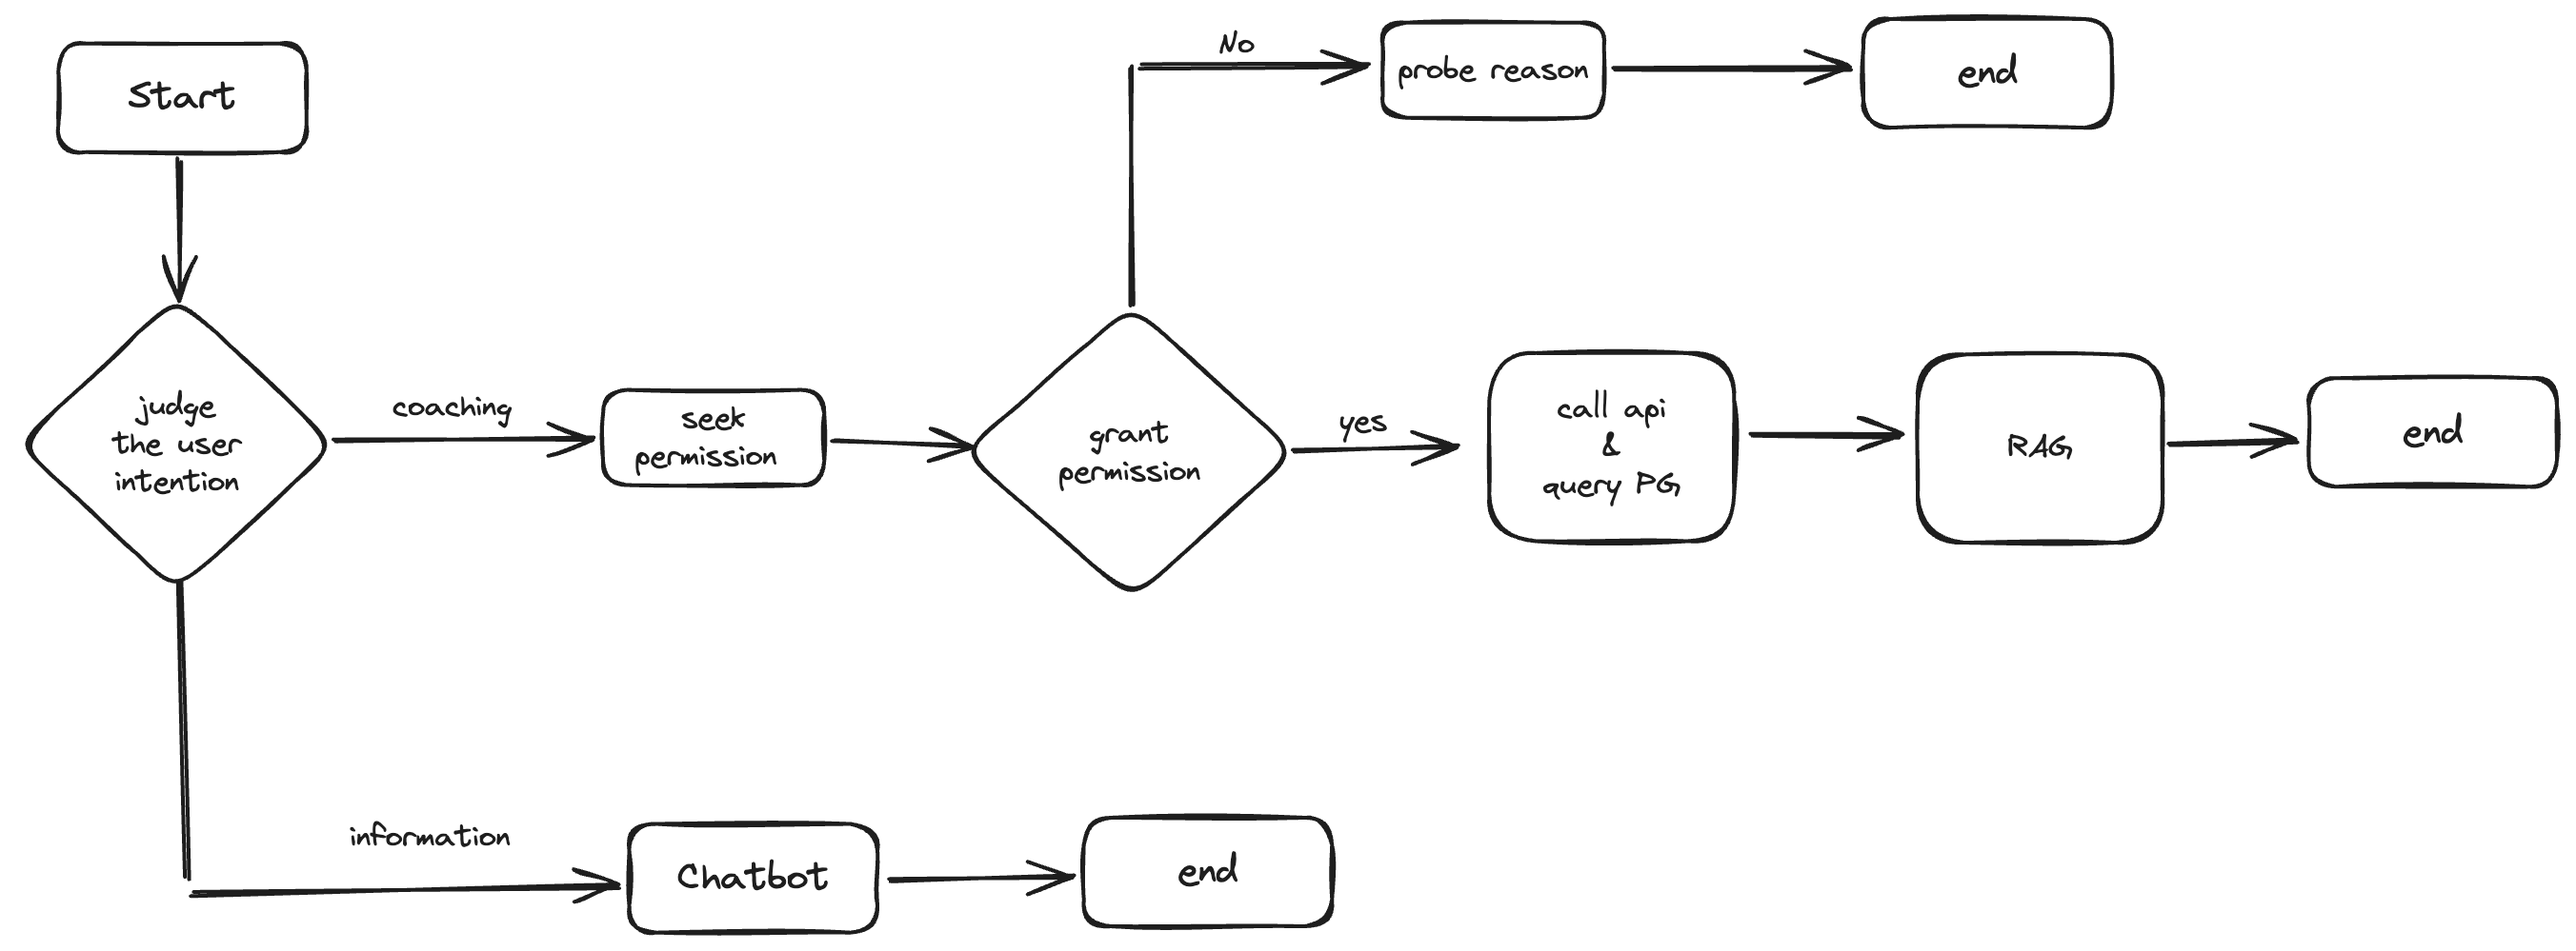
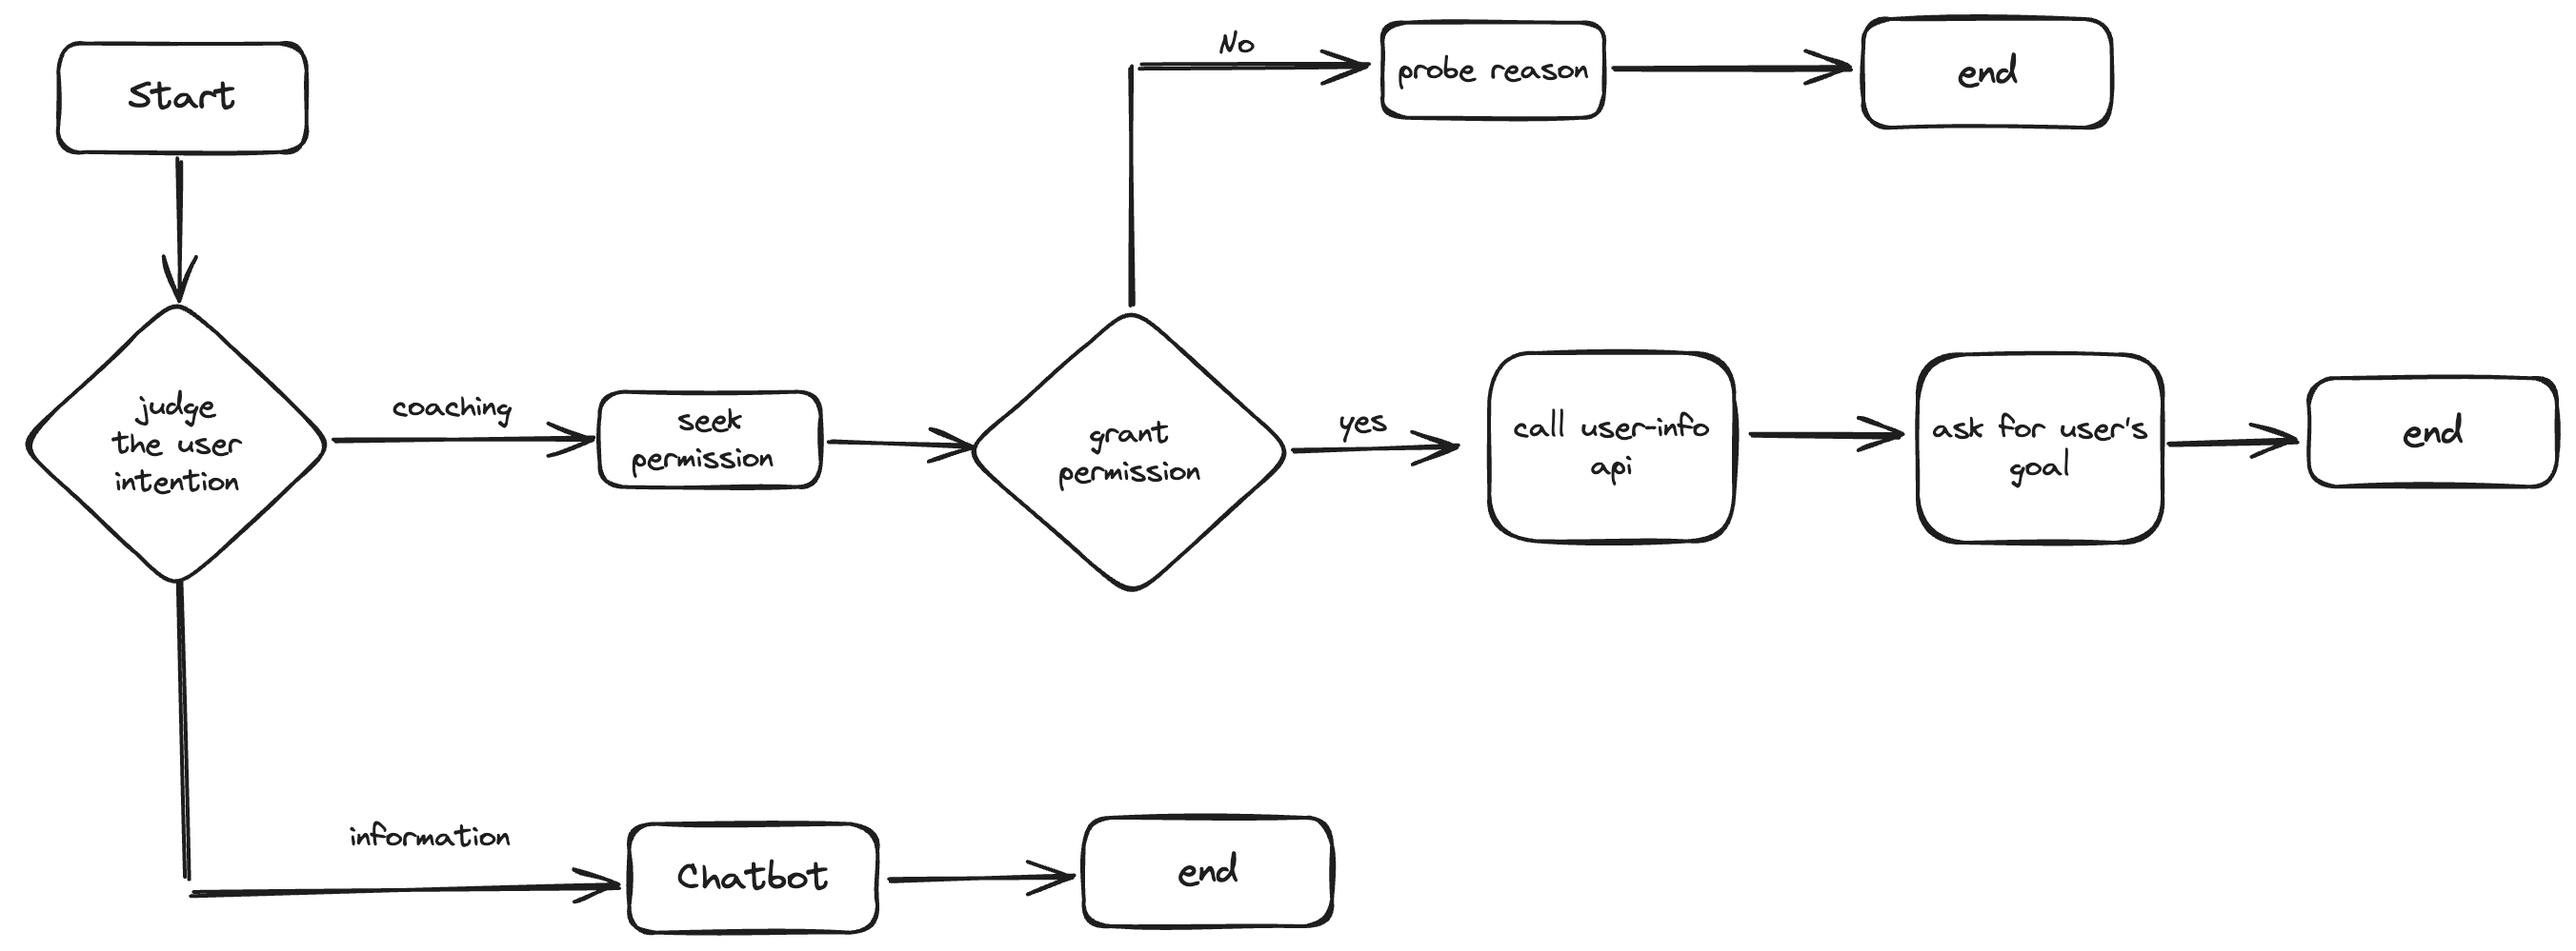
update the prompt to output josn

Changed region(s): [[0.2175, 0.4034, 0.3417, 0.5275], [0.5902, 0.4034, 0.6834, 0.5275], [0.7456, 0.4344, 0.8388, 0.4965]]

diff --git a/main.py b/main.py
@@ -29,25 +29,14 @@ def get_health_coach_tools() -> list[BaseTool]:
         ctx.write_event_to_stream(ProgressEvent(msg="Retrieving user information"))
         response = requests.get('http://localhost:3000/user-info')
         user_info = response.json()
-        print(f"Get the user information from API: {user_info}")
         user_state = await ctx.get("user_state")
         user_state["user_persona"] = user_info["user_persona"]
         user_state["user_tasks"] = user_info["user_tasks"]
         await ctx.set("user_state", user_state)
         return f"The user information is {user_state["user_persona"]} and the user tasks are {user_state["user_tasks"]}."
 
-    async def get_reference_from_rag(ctx: Context) -> str:
-        """Get more reference from RAG."""
-        mocked_rag_return = ["Walking regularly helps you grow taller and helps you sleep", "Eating fruits can ensure normal intake of vitamins and contribute to health"]
-        ctx.write_event_to_stream(ProgressEvent(msg="Retrieving reference from RAG"))
-        user_state = await ctx.get("user_state")
-        user_state["user_reference"] = mocked_rag_return
-        await ctx.set("user_state", user_state)
-        return f"The reference information from RAG is {user_state["user_reference"]}."
-
     return [
         FunctionToolWithContext.from_defaults(async_fn=get_user_information),
-        FunctionToolWithContext.from_defaults(async_fn=get_reference_from_rag)
     ]
 
 
@@ -63,11 +52,16 @@ def get_agent_configs() -> list[AgentConfig]:
             system_prompt="""
 You are a helpful assistant that is coaching a user to have better health.
 You must follow those steps:
-1. call "get_user_information" to get the user_persona and user tasks.
-2. call "get_reference_from_rag" to get the reference information from RAG.
-3. Ask user the goal of health coaching.
-4. Use the information from step 1 and 2 and the user's goal to generate 3 related tasks, MUST give the suggestion directly, DO NOT ask user question.
-Note: the function call might be rejected by use, if so, MUST highlight function call status in the beginning of your response.
+1. call "get_user_information" directly to get the user_persona and user tasks. If the function call is rejected by user, end the conversation with a polite tone and highlight function call status and reason 
+2. Ask user the goal of health coaching with some candidates.
+3. Use the user information and the user's goal to generate 3 related tasks, MUST give the suggestion directly, DO NOT ask user question.
+Note: the final response should be a json with following format:
+    {
+        "user_info": xxxxxx,
+        "user_goal": xxxxxx,
+        "recommended_task": ["task1", "task2", "task3"],
+        "reason": xxxxxx
+    }
             """,
             tools=get_health_coach_tools(),
             tools_requiring_human_confirmation=["get_user_information"]

diff --git a/workflow.py b/workflow.py
@@ -120,7 +120,7 @@ class SystemAgent(Workflow):
         active_speaker = await ctx.get("active_speaker", default="")
         user_msg = ev.get("user_msg")
         agent_configs = ev.get("agent_configs", default=[])
-        llm: LLM = ev.get("llm", default=OpenAI(model="gpt-4o", temperature=0.3))
+        llm: LLM = ev.get("llm", default=OpenAI(model="gpt-4o", temperature=0.1))
         chat_history = ev.get("chat_history", default=[])
         initial_state = ev.get("initial_state", default={})
         if (

diff --git a/README.md b/README.md
@@ -43,10 +43,10 @@ At the beginning of the conversation, no active speaker is set, so you get route
 <span style="color:green">SYSTEM >> I need approval for the following tool call: get_user_information {} </span>
 <span style="color:white">Do you approve? (y/n): y</span>
 <span style="color:green">SYSTEM >> Retrieving user information</span>
-<span style="color:green">SYSTEM >> Tool get_user_information called with {} returned The user information is {'age': 25, 'weight': 70, 'height': 180} and the user tasks are ['walk 1000 steps', 'eat two apples']. </span>
-<span style="color:green">SYSTEM >> Retrieving reference from RAG</span>
-<span style="color:green">SYSTEM >> Tool get_reference_from_rag called with {} returned The reference information from RAG is ['Walking regularly helps you grow taller and helps you sleep', 'Eating fruits can ensure normal intake of vitamins and contribute to health']. </span>
-<span style="color:blue">AGENT >>  Great! Here's how we can get you started with a health coaching plan: xxxxxx </span>
+<span style="color:green">SYSTEM >> Tool get_user_information called with {} returned The user information is {'age': 25, 'weight': 70, 'height': 180} and the user tasks are ['Walk 1000 steps everyday', 'Eat more green vegetables']. </span>
+<span style="color:blue">AGENT >>  Great! To tailor our health coaching to your needs, could you please share your specific health goal with me? </span>
+<span style="color:white">USER >> gain muscle </span>
+<span style="color:blue">AGENT >> Final response in json format </span>
 <span style="color:white">bye</span>
 </blockquote>
 
@@ -55,14 +55,13 @@ Here, we see the orchestration agent routing to the health coaching agent, and t
 
 <blockquote>
 <span style="color:blue">AGENT >>  Hello! How can I assist you today?</span>
-<span style="color:white">USER >> is eating a lot of apples considered healthy?</span>
+<span style="color:white">USER >> Is eating a lot of apples considered healthy?</span>
 <span style="color:green">SYSTEM >> Transferring to agent Information Agent</span>
-<span style="color:blue">AGENT >> To learn about generative AI (GenAI), you can follow these steps: xxxxxxx </span>
+<span style="color:blue">AGENT >> Eating apples can be a healthy part of a balanced diet, xxxxxxx </span>
 <span style="color:white">bye</span>
 </blockquote>
 
 Here, we see the orchestration agent routing to the information agent since we send a general question of genai.
 
 ## What's next
-- Add real RAG function to retrieve the reference from Vector DB
-- Add real tool calls to get user information via api or DB
+- Add real tool calls to get user information via api
